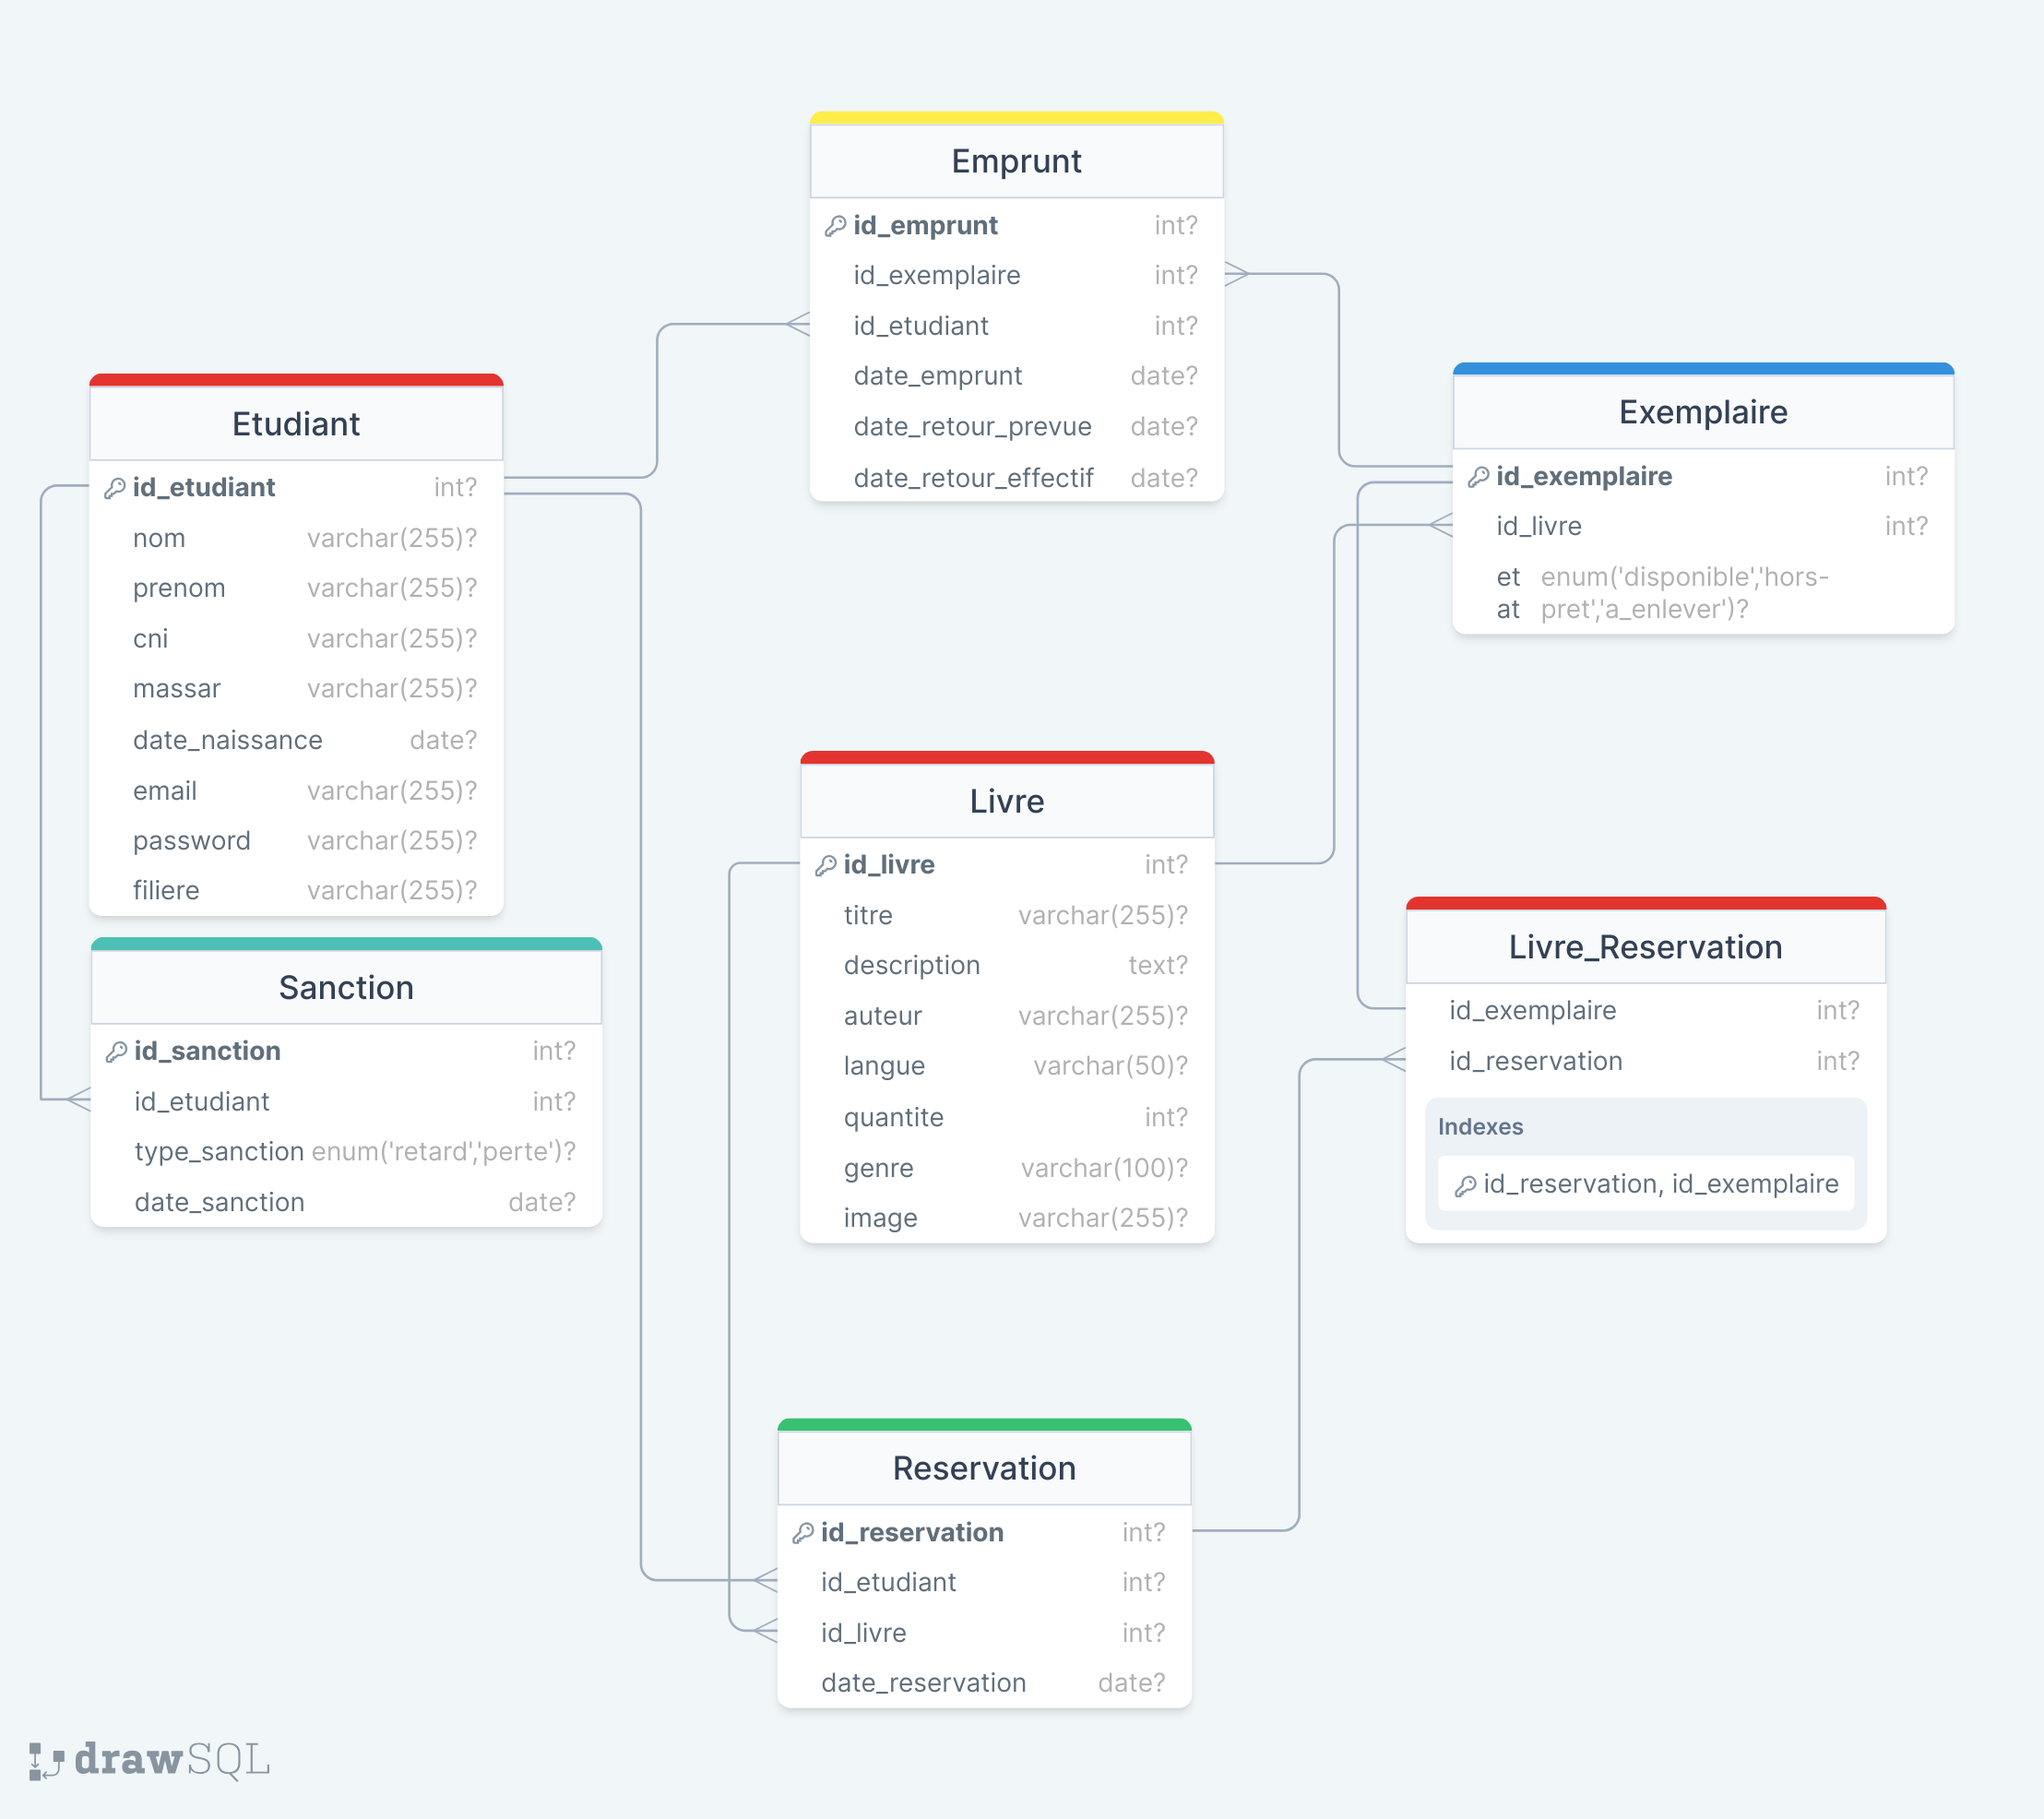
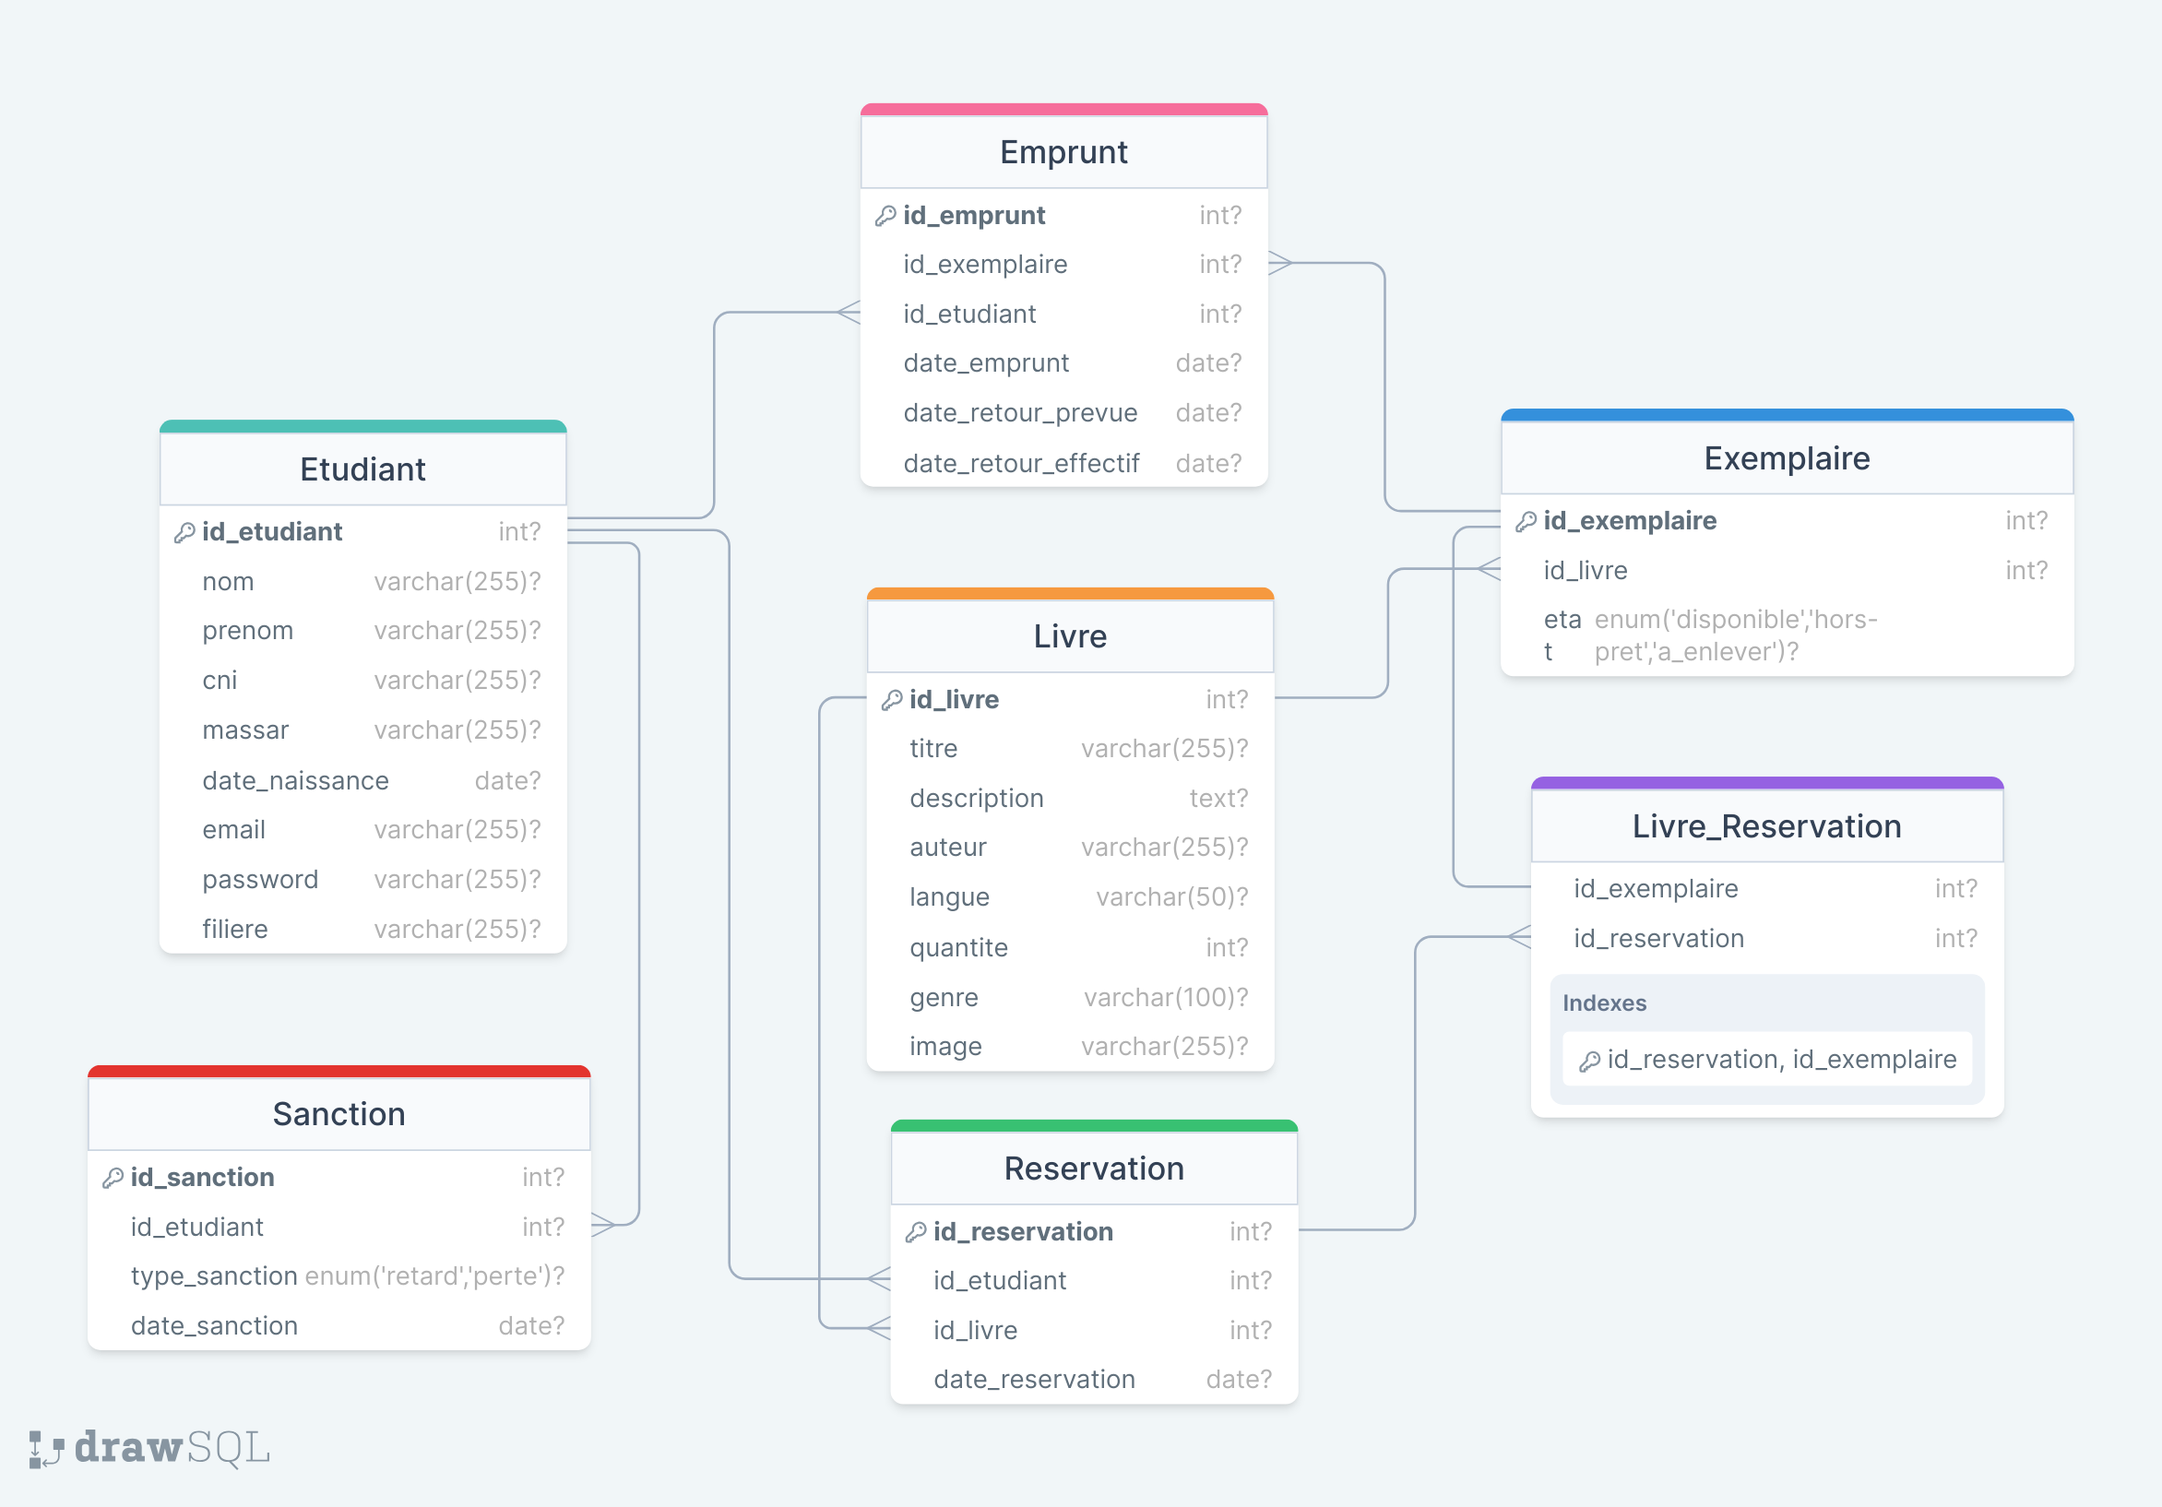
modified

diff --git a/BiblioAPP/templates/index.html b/BiblioAPP/templates/index.html
@@ -202,33 +202,33 @@
       <div class="container mx-auto px-4">
         <div class="items-center flex flex-wrap">
           <div class="w-full md:w-6/12 ml-auto mr-auto px-4">
+            <div  class="text-center">
+              <h1  class="block antialiased font-sans relative my-5 text-center text-2xl font-bold leading-tight tracking-normal text-black md:text-5xl"> Modèle Conceptuel de Données (MCD) pour un Système de Gestion de Bibliothèque </h1>
+            </div>
             <img alt="..." class="max-w-full rounded-lg shadow-lg"
-              src="{% static "/source/bd.png"%}" />
+              src="{% static 'source/bd.png' %}" />
           </div>
           <div class="w-full md:w-5/12 ml-auto mr-auto px-4">
               <div>
-                <section  class="px-35">
-                  <div  class="mb-10 text-center">
-                      <h1  class="block antialiased font-sans relative my-5 text-center text-2xl font-bold leading-tight tracking-normal text-black md:text-5xl"> Modèle Conceptuel de Données (MCD) pour un Système de Gestion de Bibliothèque </h1>
-                  </div>
-                  <div  class="grid grid-cols-12 ">
+                <section  class="px-0">
+                  <div  class="w-full ">
                       <div  class="col-span-12 lg:col-start-4 lg:col-span-6">
-                      <h5  class="block antialiased tracking-normal font-sans text-xl leading-snug text-inherit mt-6 mb-1 font-semibold !text-black">Étudiant :</h5>
+                      <h5  class="block antialiased tracking-normal font-sans text-xl leading-snug text-inherit mt-6 mb-1 font-semibold !text-black decoration-[3px] underline underline-offset-8 decoration-teal-500">Étudiant :</h5>
                       <div  class="block antialiased font-sans text-base leading-relaxed mb-4 font-normal text-gray-600">Représente un étudiant inscrit à la bibliothèque. Chaque étudiant a un identifiant unique, un nom, un prénom, une carte nationale d'identité (CNI), un identifiant Massar, une date de naissance, une adresse e-mail, un mot de passe et une filière.</div>
                       <hr  class="my-2 border-blue-gray-50">
-                      <h5  class="block antialiased tracking-normal font-sans text-xl leading-snug text-inherit mt-6 mb-1 font-semibold !text-black">Livre :</h5>
+                      <h5  class="block antialiased tracking-normal font-sans text-xl leading-snug text-inherit mt-6 mb-1 font-semibold !text-black decoration-[3px] underline underline-offset-8 decoration-orange-400">Livre :</h5>
                       <div  class="block antialiased font-sans text-base leading-relaxed mb-4 font-normal text-gray-600">Représente un livre disponible dans la bibliothèque. Chaque livre a un identifiant unique, un titre, une description, un auteur, une langue, une quantité disponible, un genre et une image de couverture.</div>
                       <hr  class="my-2 border-blue-gray-50">
-                      <h5  class="block antialiased tracking-normal font-sans text-xl leading-snug text-inherit mt-6 mb-1 font-semibold !text-black">Exemplaire :</h5>
+                      <h5  class="block antialiased tracking-normal font-sans text-xl leading-snug text-inherit mt-6 mb-1 font-semibold !text-black decoration-[3px] underline underline-offset-8 decoration-blue-500">Exemplaire :</h5>
                       <div  class="block antialiased font-sans text-base leading-relaxed mb-4 font-normal text-gray-600">Représente une copie spécifique d'un livre. Chaque exemplaire a un identifiant unique, est lié à un livre spécifique, a un état (disponible, hors-pret, à enlever) et une date d'achat.</div>
                       <hr  class="my-2 border-blue-gray-50">
-                      <h5  class="block antialiased tracking-normal font-sans text-xl leading-snug text-inherit mt-6 mb-1 font-semibold !text-black">Emprunt :</h5>
+                      <h5  class="block antialiased tracking-normal font-sans text-xl leading-snug text-inherit mt-6 mb-1 font-semibold !text-black decoration-[3px] underline underline-offset-8 decoration-pink-500">Emprunt :</h5>
                       <div  class="block antialiased font-sans text-base leading-relaxed mb-4 font-normal text-gray-600">Représente un emprunt de livre effectué par un étudiant. Chaque emprunt a un identifiant unique, est lié à un exemplaire et à un étudiant spécifique, a une date d'emprunt, une date de retour prévue et une date de retour effective.</div>
                       <hr  class="my-2 border-blue-gray-50">
-                      <h5  class="block antialiased tracking-normal font-sans text-xl leading-snug text-inherit mt-6 mb-1 font-semibold !text-black">Sanction :</h5>
+                      <h5  class="block antialiased tracking-normal font-sans text-xl leading-snug text-inherit mt-6 mb-1 font-semibold !text-black decoration-[3px] underline underline-offset-8 decoration-red-700">Sanction :</h5>
                       <div  class="block antialiased font-sans text-base leading-relaxed mb-4 font-normal text-gray-600">Représente une sanction appliquée à un étudiant en cas de retard ou de perte de livre. Chaque sanction a un identifiant unique, est associée à un étudiant spécifique, a un type de sanction (retard ou perte), une date de sanction et un montant éventuel.</div>
                       <hr  class="my-2 border-blue-gray-50">
-                      <h5  class="block antialiased tracking-normal font-sans text-xl leading-snug text-inherit mt-6 mb-1 font-semibold !text-black">Relations :</h5>
+                      <h5  class="block antialiased tracking-normal font-sans text-xl leading-snug text-inherit mt-6 mb-1 font-semibold !text-black decoration-[3px] underline underline-offset-8 decoration-purple-700">Relations :</h5>
                       <div  class="block antialiased font-sans text-base leading-relaxed mb-4 font-normal text-gray-600">     Un étudiant peut réserver plusieurs livres (relation 1:N entre Étudiant et Réservation).
                         Un livre peut être réservé par plusieurs étudiants (relation N:M entre Livre et Réservation).</div>
                       </div>
